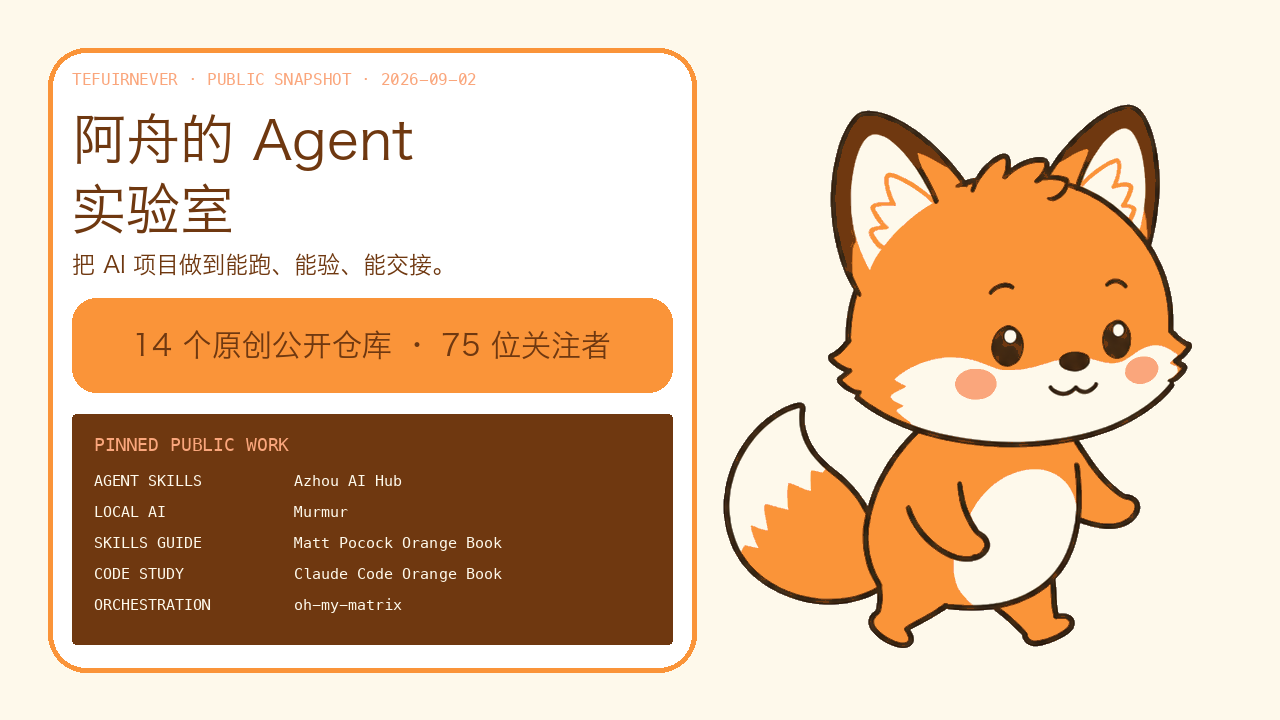
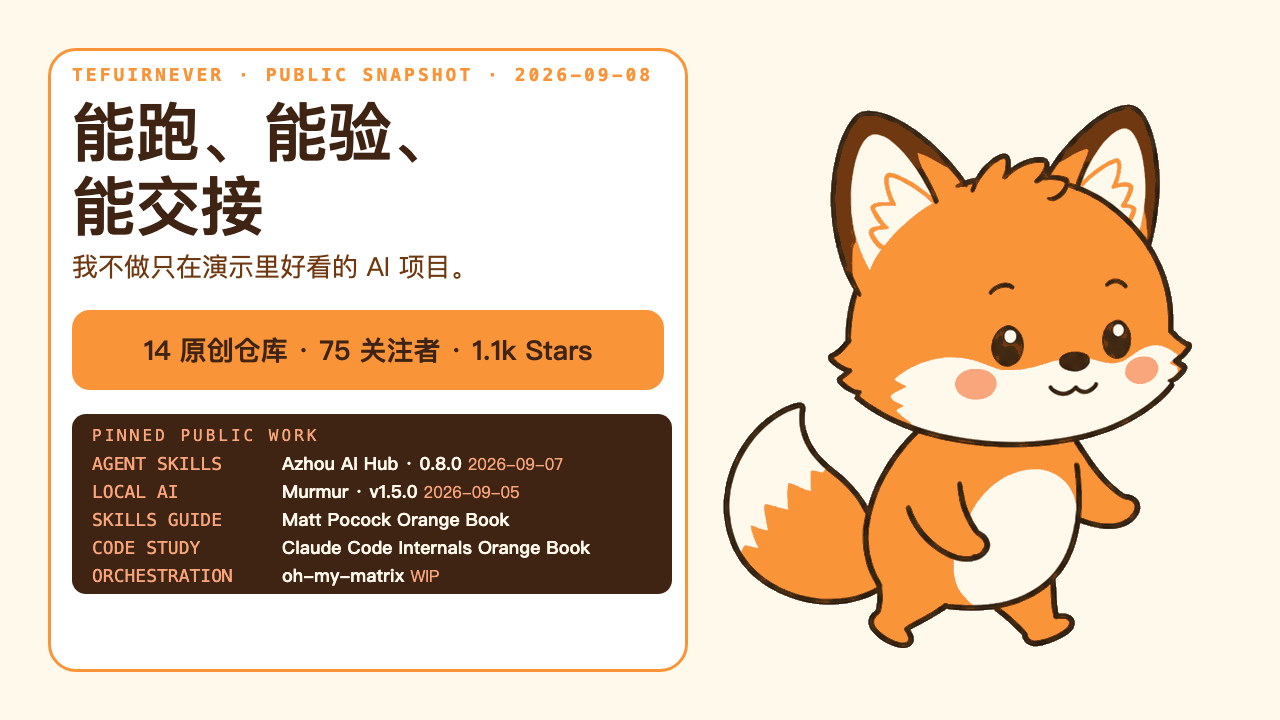
docs(profile): refresh cover snapshot to 2026-09-08 and surface latest releases
- cover: regenerate snapshot card (14 repos / 75 followers / 1.1k stars)
- badges: Azhou AI Hub 0.8.0 (2026-09-07), Murmur dynamic release badge

Changed region(s): [[0.0312, 0.0611, 0.5625, 0.9472]]

diff --git a/README.md b/README.md
@@ -4,7 +4,7 @@
 
 <p align="center">
   <img
-    alt="阿舟的 Agent 实验室首页图：2026-09-02 的公开账号快照，展示 14 个原创公开仓库、75 位关注者，以及 Azhou AI Hub、Murmur、两本橙皮书与 oh-my-matrix。"
+    alt="阿舟的 Agent 实验室首页图：2026-09-08 的公开账号快照，展示 14 个原创公开仓库、75 位关注者、约 1.1k Stars，以及 Azhou AI Hub 0.8.0、Murmur v1.5.0、两本橙皮书与 oh-my-matrix。"
     src="https://raw.githubusercontent.com/TeFuirnever/TeFuirnever/main/assets/profile/azhou-public-work.png"
     width="100%">
 </p>
@@ -39,11 +39,15 @@
 
 ### [Azhou AI Hub](https://github.com/TeFuirnever/azhou-ai-hub) · 经得起验证的 Agent Skills
 
+[![Azhou AI Hub 0.8.0](https://img.shields.io/badge/0.8.0-2026--09--07-FA9439?style=flat)](https://github.com/TeFuirnever/azhou-ai-hub)
+
 把每个 skill 当作产品：明确触发、可移植运行、确定性门禁、证据留存，以及由人控制的演化路径。
 
 [![Azhou AI Hub — verified Agent Skill system](https://raw.githubusercontent.com/TeFuirnever/TeFuirnever/main/assets/profile/card-azhou-ai-hub.svg)](https://github.com/TeFuirnever/azhou-ai-hub)
 
 ### [Murmur](https://github.com/TeFuirnever/Murmur) · 为中文优化的本地 AI 语音输入
+
+[![Murmur release](https://img.shields.io/github/v/release/TeFuirnever/Murmur?style=flat&label=release&color=FAA67C)](https://github.com/TeFuirnever/Murmur/releases)
 
 说话就能打字，也能批量转写音频，再用 AI 整理成可继续编辑的文本；语音识别在本地完成。
 
